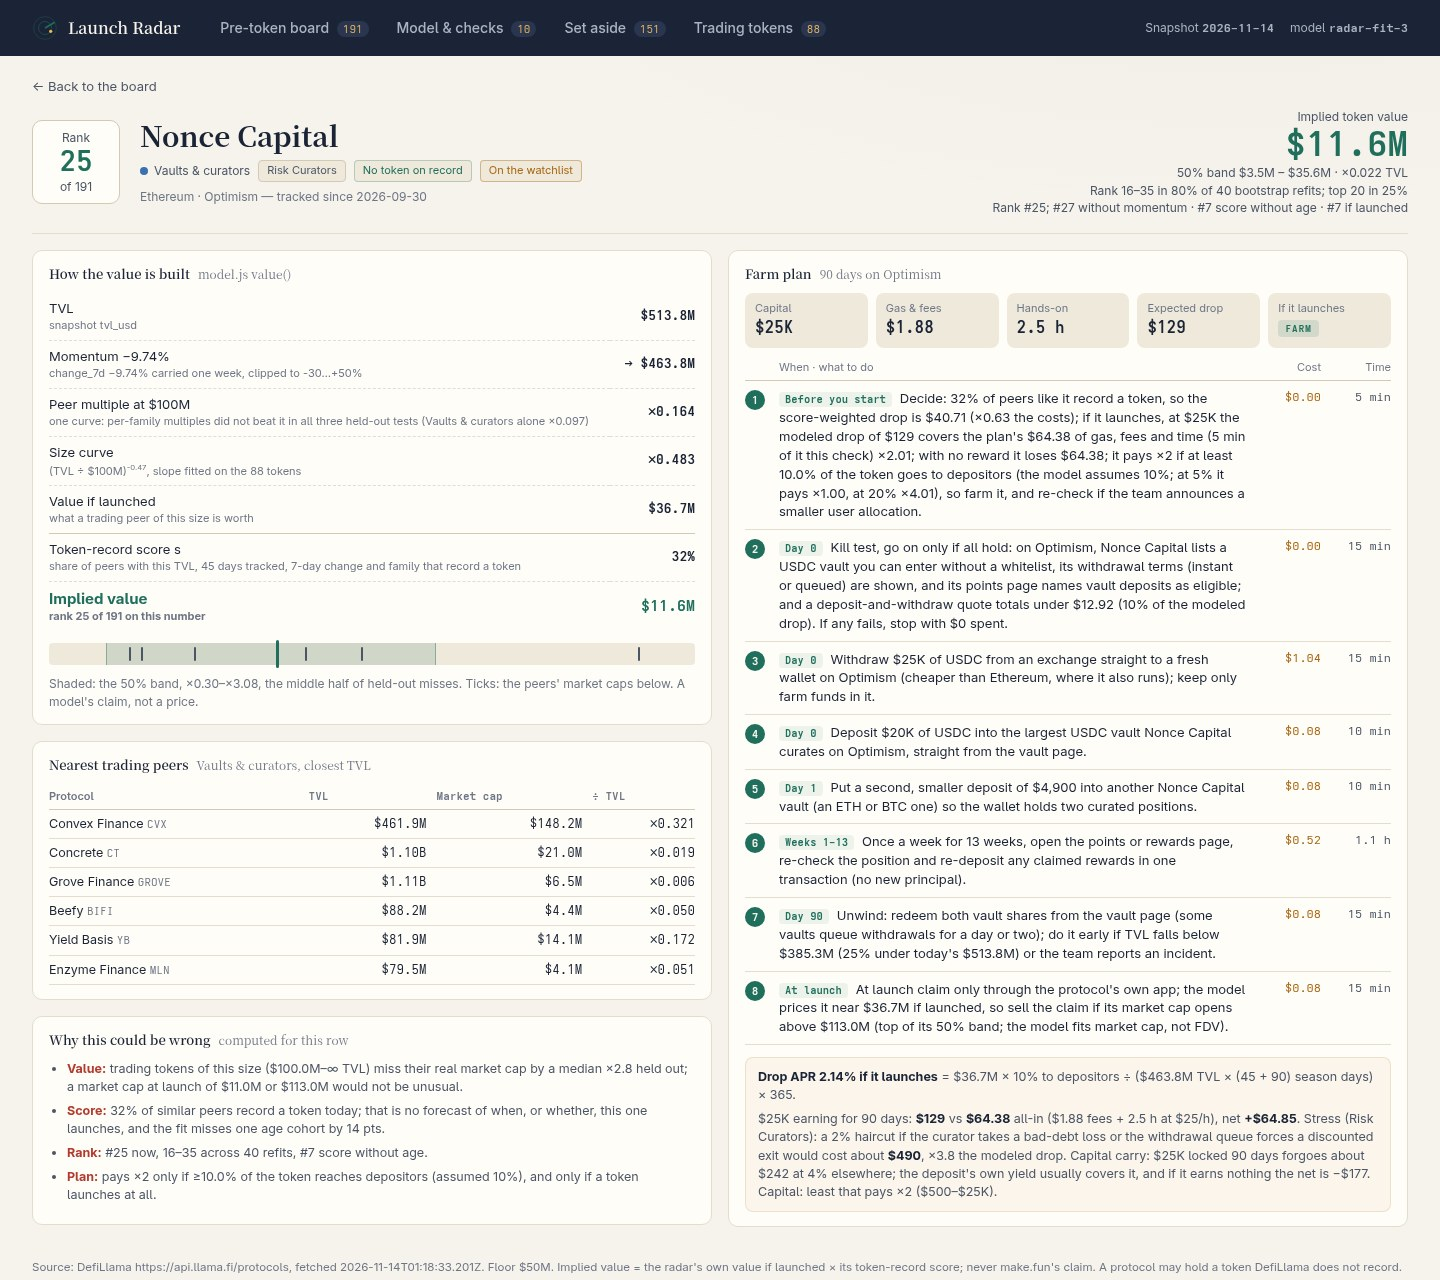
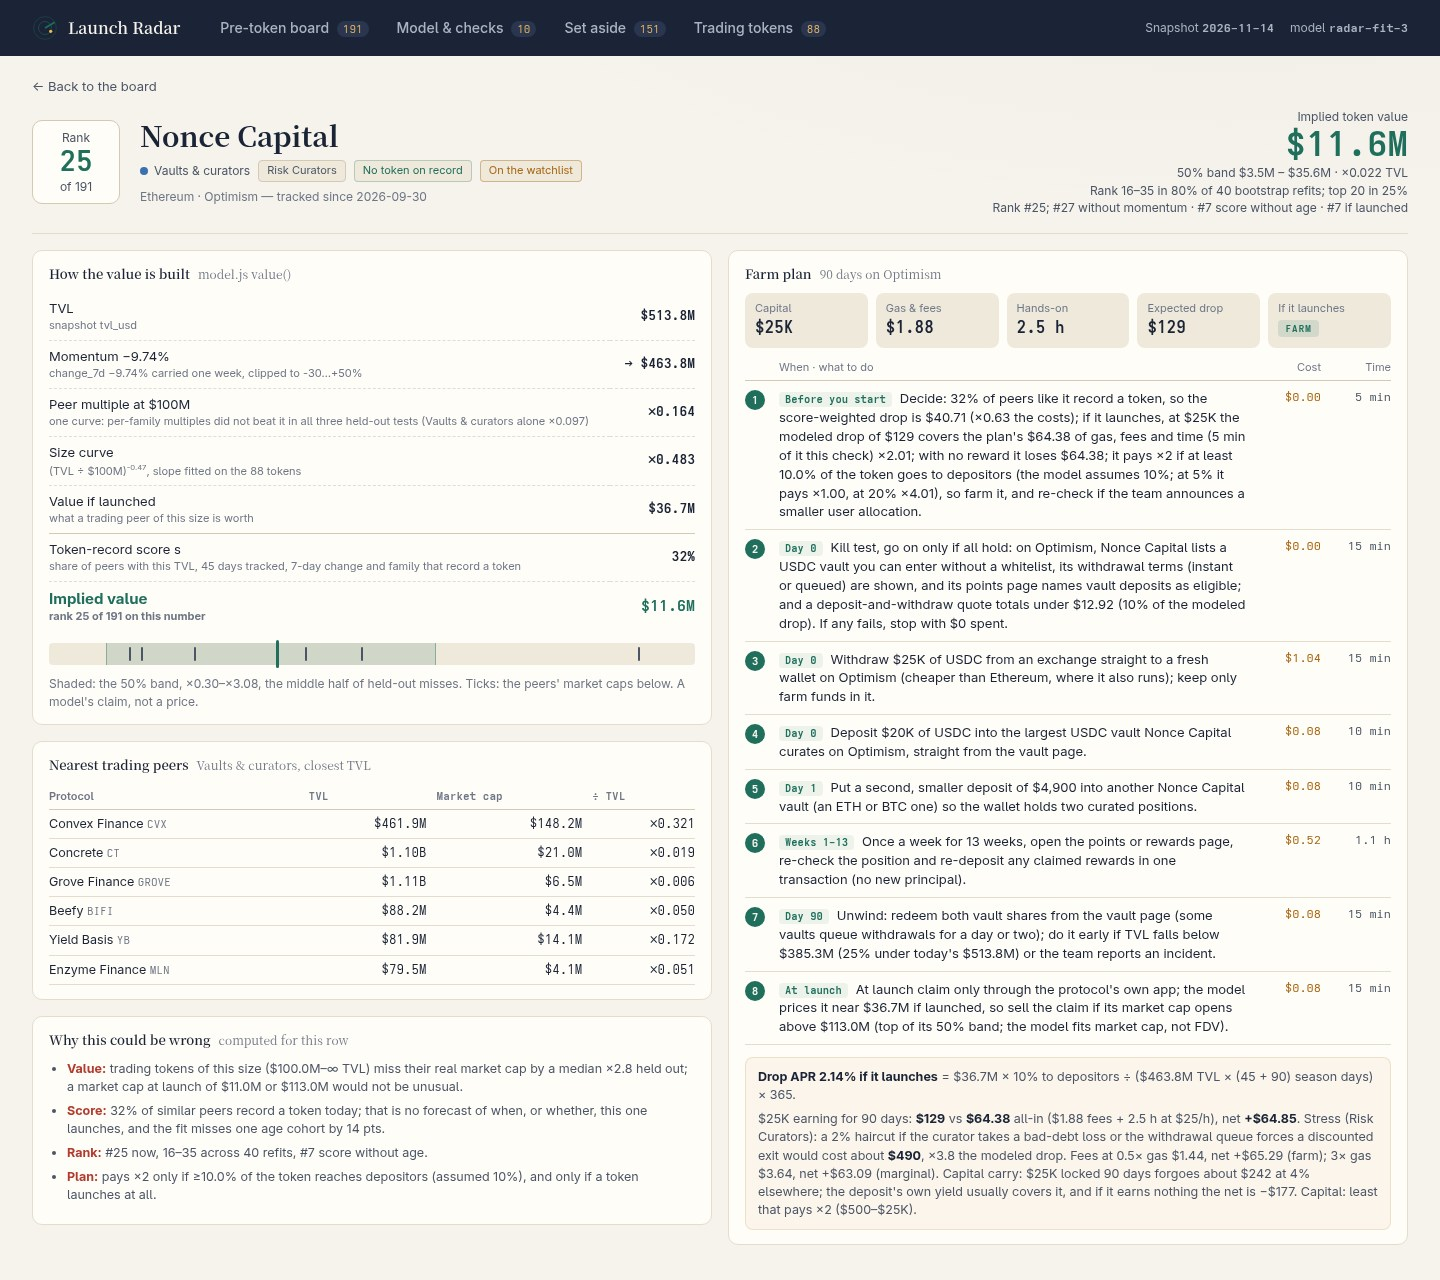
Fee scenarios: every plan recomputed at 0.5x and 3x gas with its net and verdict; the board counts the farm verdicts that hold at 3x gas

Changed region(s): [[0.5312, 0.875, 0.9688, 0.9688]]

diff --git a/dashboard/app.js b/dashboard/app.js
@@ -181,7 +181,7 @@
    <label class="field"><span>Deposit</span><select id="dep">${['', 1000, 5000, 10000, 25000, 100000, 250000].map((d) => `<option value="${d}"${String(d) === st.dep ? ' selected' : ''}>${d ? usd(d) : 'Auto: least that pays'}</option>`).join('')}</select></label>
    <label class="field"><span>Your hour</span><select id="hr">${[0, 10, 25, 50, 100].map((h) => `<option value="${h}"${String(h) === st.hr ? ' selected' : ''}>$${h}/h</option>`).join('')}</select></label>
    <label class="field"><span>Chain</span><select id="chain"><option value="">All chains</option>${Object.keys(chains).sort((a, b) => chains[b] - chains[a] || (a < b ? -1 : 1)).map((c) => `<option${c === st.chain ? ' selected' : ''}>${esc(c)}</option>`).join('')}</select></label>
-   <div class="count">Top 20 at $${st.hr}/h: <b>${farmAt(+st.hr, st.dep)}</b> farm (${farmAt(0, st.dep)} at $0/h, ${farmAt(25, st.dep)} at $25/h) · <b>${shown.length}</b> of ${rows.length} shown${active ? ` · <a href="${link(CLEAR)}">clear filters</a>` : ''}</div>
+   <div class="count">Top 20 at $${st.hr}/h: <b>${farmAt(+st.hr, st.dep)}</b> farm (${farmAt(0, st.dep)} at $0/h, ${farmAt(25, st.dep)} at $25/h) · farm verdicts holding at 3× gas: <b>${shown.filter((r) => r.plan.fees[1][3] === 'farm').length}</b>/${shown.filter((r) => r.plan.verdict === 'farm').length} · <b>${shown.length}</b> of ${rows.length} shown${active ? ` · <a href="${link(CLEAR)}">clear filters</a>` : ''}</div>
   </section>
   <section class="filters basket"><label class="field"><span>Budget</span><select id="bud">${[10000, 25000, 50000, 100000, 250000, 1000000].map((d) => `<option value="${d}"${String(d) === st.bud ? ' selected' : ''}>${usd(d)}</option>`).join('')}</select></label>
    <span>Basket, best net per dollar of the ${shown.length} shown, within ${usd(+st.bud)} and ${HOURS} h: ${pick.map((r) => `<a href="${link({ p: r.p.slug })}">${esc(r.p.name)}</a> ${usd(r.plan.stake)}`).join(' · ') || 'none pays'} → <b>${usd(cap)}</b>, ${hrs.toFixed(1)} h, net if they launch <b class="up">+${usd(pick.reduce((s, r) => s + r.plan.net, 0))}</b></span></section>
@@ -272,7 +272,7 @@
     <ol class="steps">${pl.steps.map((s) => `<li><p><em>${esc(s.when)}</em>${esc(s.act)}.</p><span class="cost">${usd(s.usd)}</span><span class="time">${R.mins(s.min)}</span></li>`).join('')}</ol>
     <div class="math">
      <p><b>Drop APR ${(v.apr * 100).toFixed(2)}% if it launches</b> = ${usd(v.fitted)} × ${M.drop_share * 100}% to depositors ÷ (${usd(v.tvl_next)} TVL × (${Math.min(v.age_used, M.season_days)} + ${M.farm_days}) season days) × 365.</p>
-     <p>${usd(pl.eligible)} earning for ${pl.days} days: <b>${usd(pl.drop)}</b> vs <b>${usd(pl.all_in)}</b> all-in (${usd(pl.cost)} fees + ${R.mins(pl.minutes)} at $${pl.hour}/h), net <b class="${pl.net >= 0 ? 'up' : 'down'}">${pl.net >= 0 ? '+' : '−'}${usd(Math.abs(pl.net))}</b>. Stress (${esc(p.category || FAM[v.family])}): ${esc(pl.stress)} would cost about <b>${usd(pl.stress_usd)}</b>, ×${(pl.stress_usd / Math.max(pl.drop, 1e-9)).toFixed(1)} the modeled drop. Capital carry: ${usd(pl.stake)} locked ${pl.days} days forgoes about ${usd(pl.carry)} at ${M.carry_rate * 100}% elsewhere; the deposit's own yield usually covers it, and if it earns nothing the net is ${pl.net - pl.carry >= 0 ? '+' : '−'}${usd(Math.abs(pl.net - pl.carry))}. Capital: ${st.dep ? 'your deposit' : pl.verdict === 'farm' ? `least that pays ×${M.target_cover} ($500–$25K)` : `capped at $25K; no deposit up to it pays ×${M.target_cover}`}.</p>
+     <p>${usd(pl.eligible)} earning for ${pl.days} days: <b>${usd(pl.drop)}</b> vs <b>${usd(pl.all_in)}</b> all-in (${usd(pl.cost)} fees + ${R.mins(pl.minutes)} at $${pl.hour}/h), net <b class="${pl.net >= 0 ? 'up' : 'down'}">${pl.net >= 0 ? '+' : '−'}${usd(Math.abs(pl.net))}</b>. Stress (${esc(p.category || FAM[v.family])}): ${esc(pl.stress)} would cost about <b>${usd(pl.stress_usd)}</b>, ×${(pl.stress_usd / Math.max(pl.drop, 1e-9)).toFixed(1)} the modeled drop. Fees at ${pl.fees.map((f) => `${f[0]}× gas ${usd(f[1])}, net ${f[2] < 0 ? '−' : '+'}${usd(Math.abs(f[2]))} (${f[3]})`).join('; ')}. Capital carry: ${usd(pl.stake)} locked ${pl.days} days forgoes about ${usd(pl.carry)} at ${M.carry_rate * 100}% elsewhere; the deposit's own yield usually covers it, and if it earns nothing the net is ${pl.net - pl.carry >= 0 ? '+' : '−'}${usd(Math.abs(pl.net - pl.carry))}. Capital: ${st.dep ? 'your deposit' : pl.verdict === 'farm' ? `least that pays ×${M.target_cover} ($500–$25K)` : `capped at $25K; no deposit up to it pays ×${M.target_cover}`}.</p>
     </div>
    </section>
   </div>`;

diff --git a/dashboard/model.js b/dashboard/model.js
@@ -278,9 +278,9 @@
   main.forEach(function (c) { if (gas(c) < gas(chain)) chain = c; });
   var kind = p.category === 'Prediction Market' ? 'predict' : v.family;
   var asset = /^(Bitcoin|Lightning)/.test(chain) ? 'BTC' : 'USDC';
-  var tx = gas(chain), weeks = Math.round(M.farm_days / 7), perDollar = v.apr * M.farm_days / 365;
-  function steps(stake) {
-   var side = Math.round(stake / 4), act = ACT[kind];
+  var tx0 = gas(chain), weeks = Math.round(M.farm_days / 7), perDollar = v.apr * M.farm_days / 365;
+  function steps(stake, gm) {
+   var tx = tx0 * (gm || 1), side = Math.round(stake / 4), act = ACT[kind];
    var fill = function (t) { return t.replace(/USDC/g, asset).replace(/\{S\}/g, usd(stake)).replace(/\{s\}/g, usd(side)).replace(/\{N\}/g, p.name).replace(/\{C\}/g, chain); };
    return [
     { act: 'Kill test, go on only if all hold: ' + fill(act[3]) + '; and a deposit-and-withdraw quote totals under ' + usd(0.1 * eligible(stake) * perDollar) + ' (10% of the modeled drop). If any fails, stop with $0 spent', usd: 0, min: 15, when: 'Day 0' },
@@ -323,7 +323,7 @@
   }
   // Capital carry at carry_rate: shown, not charged (the deposit usually earns a yield).
   var carry = capital * M.carry_rate * M.farm_days / 365, stress = ACT[kind][4];
-  return { stress: stress[0], stress_usd: capital * stress[1], carry: carry, hour: hr, chain: chain, gas: tx, stake: capital, eligible: eligible(stake), asset: asset, steps: st, cost: t.cost, minutes: t.min, time_usd: t.min / 60 * hr, all_in: t.all,
+  return { stress: stress[0], stress_usd: capital * stress[1], carry: carry, hour: hr, chain: chain, gas: tx0, fees: [0.5, 3].map(function (m) { var a = total(steps(stake, m)); return [m, a.cost, drop - a.all, drop >= M.target_cover * a.all ? 'farm' : drop >= a.all ? 'marginal' : 'skip']; }), stake: capital, eligible: eligible(stake), asset: asset, steps: st, cost: t.cost, minutes: t.min, time_usd: t.min / 60 * hr, all_in: t.all,
    days: M.farm_days, drop: drop, net: drop - t.all, need_share: needShare, pay_cap: payCap, verdict: verdict };
  }
  function stepText(s) {
